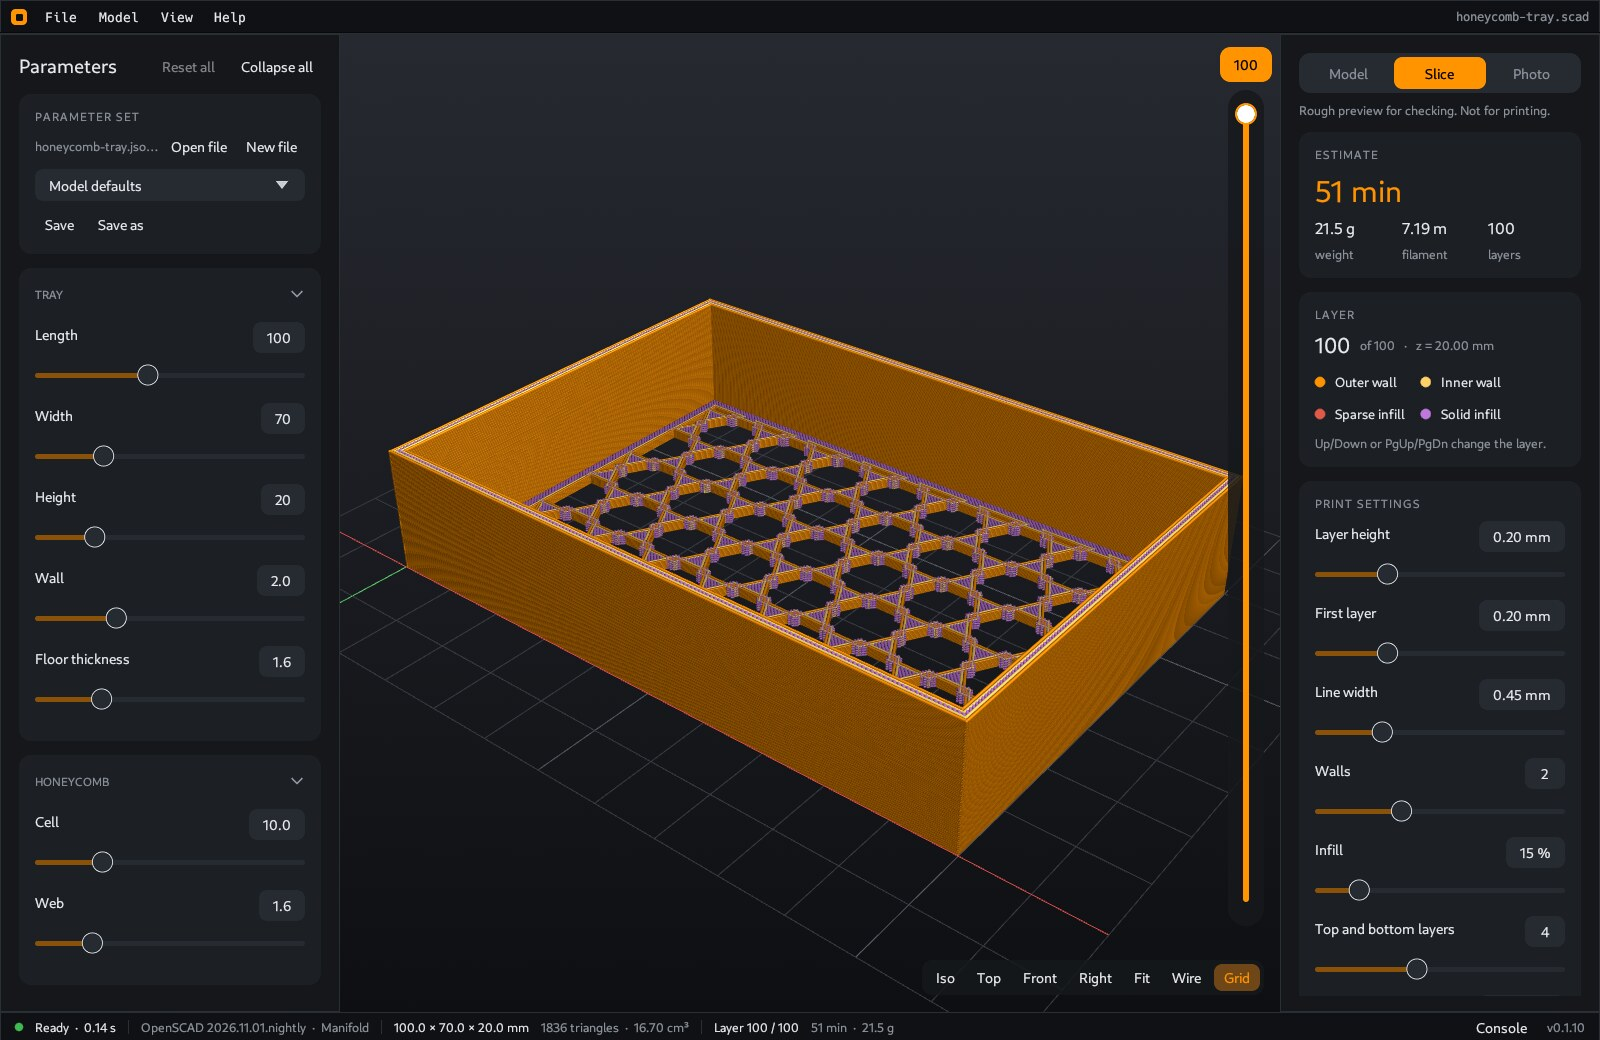
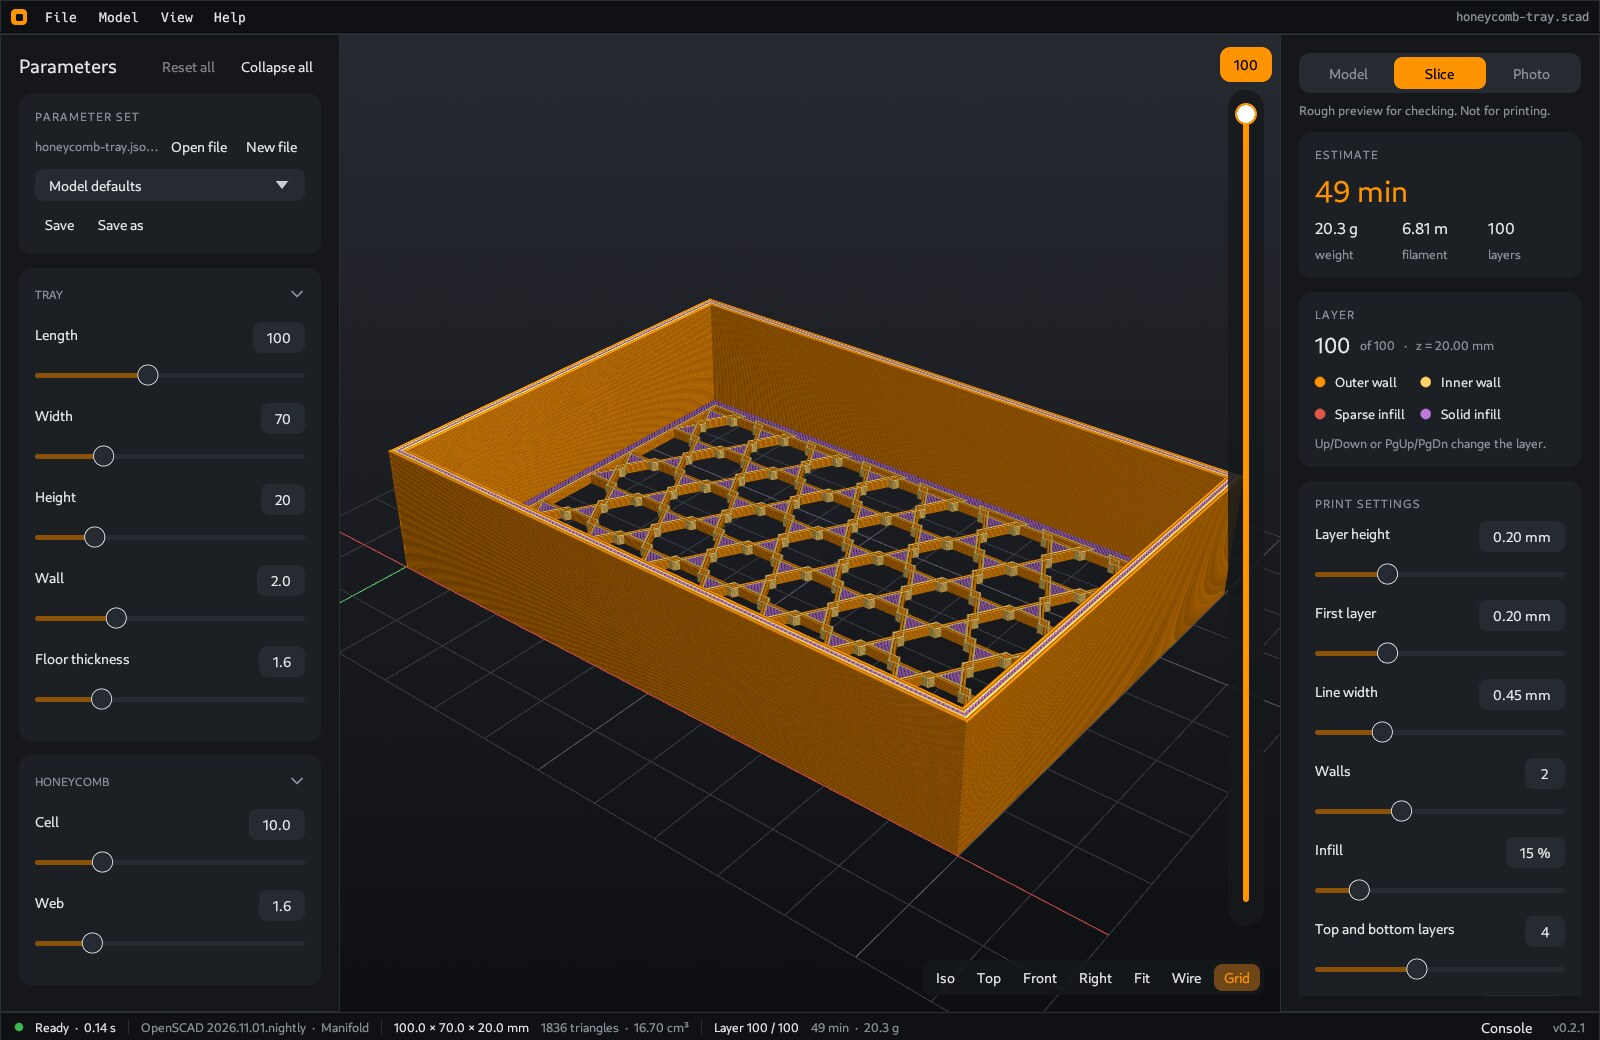
README: 0.2.1 screenshots, File menu

diff --git a/README.md b/README.md
@@ -61,6 +61,8 @@ You can also open a file with Ctrl+O or drop it on the window. **File** lists th
 | Ctrl+Q | Quit |
 | Alt+F, Alt+M, Alt+V, Alt+H | Open the File, Model, View or Help menu |
 
+![The File menu with the recent models](images/screen-menu.jpg)
+
 The menu bar holds all commands: **File**, **Model**, **View** and **Help**. The right sidebar has the **Model**, **Slice** and **Photo** tabs. The **Model** tab has Auto render, Render, the export buttons and the mesh data.
 
 The status bar at the bottom shows the render state and time, the OpenSCAD version and backend, the model size, triangles and volume, open edges, the slice or photo state, and the **Console** button with the OpenSCAD output.
